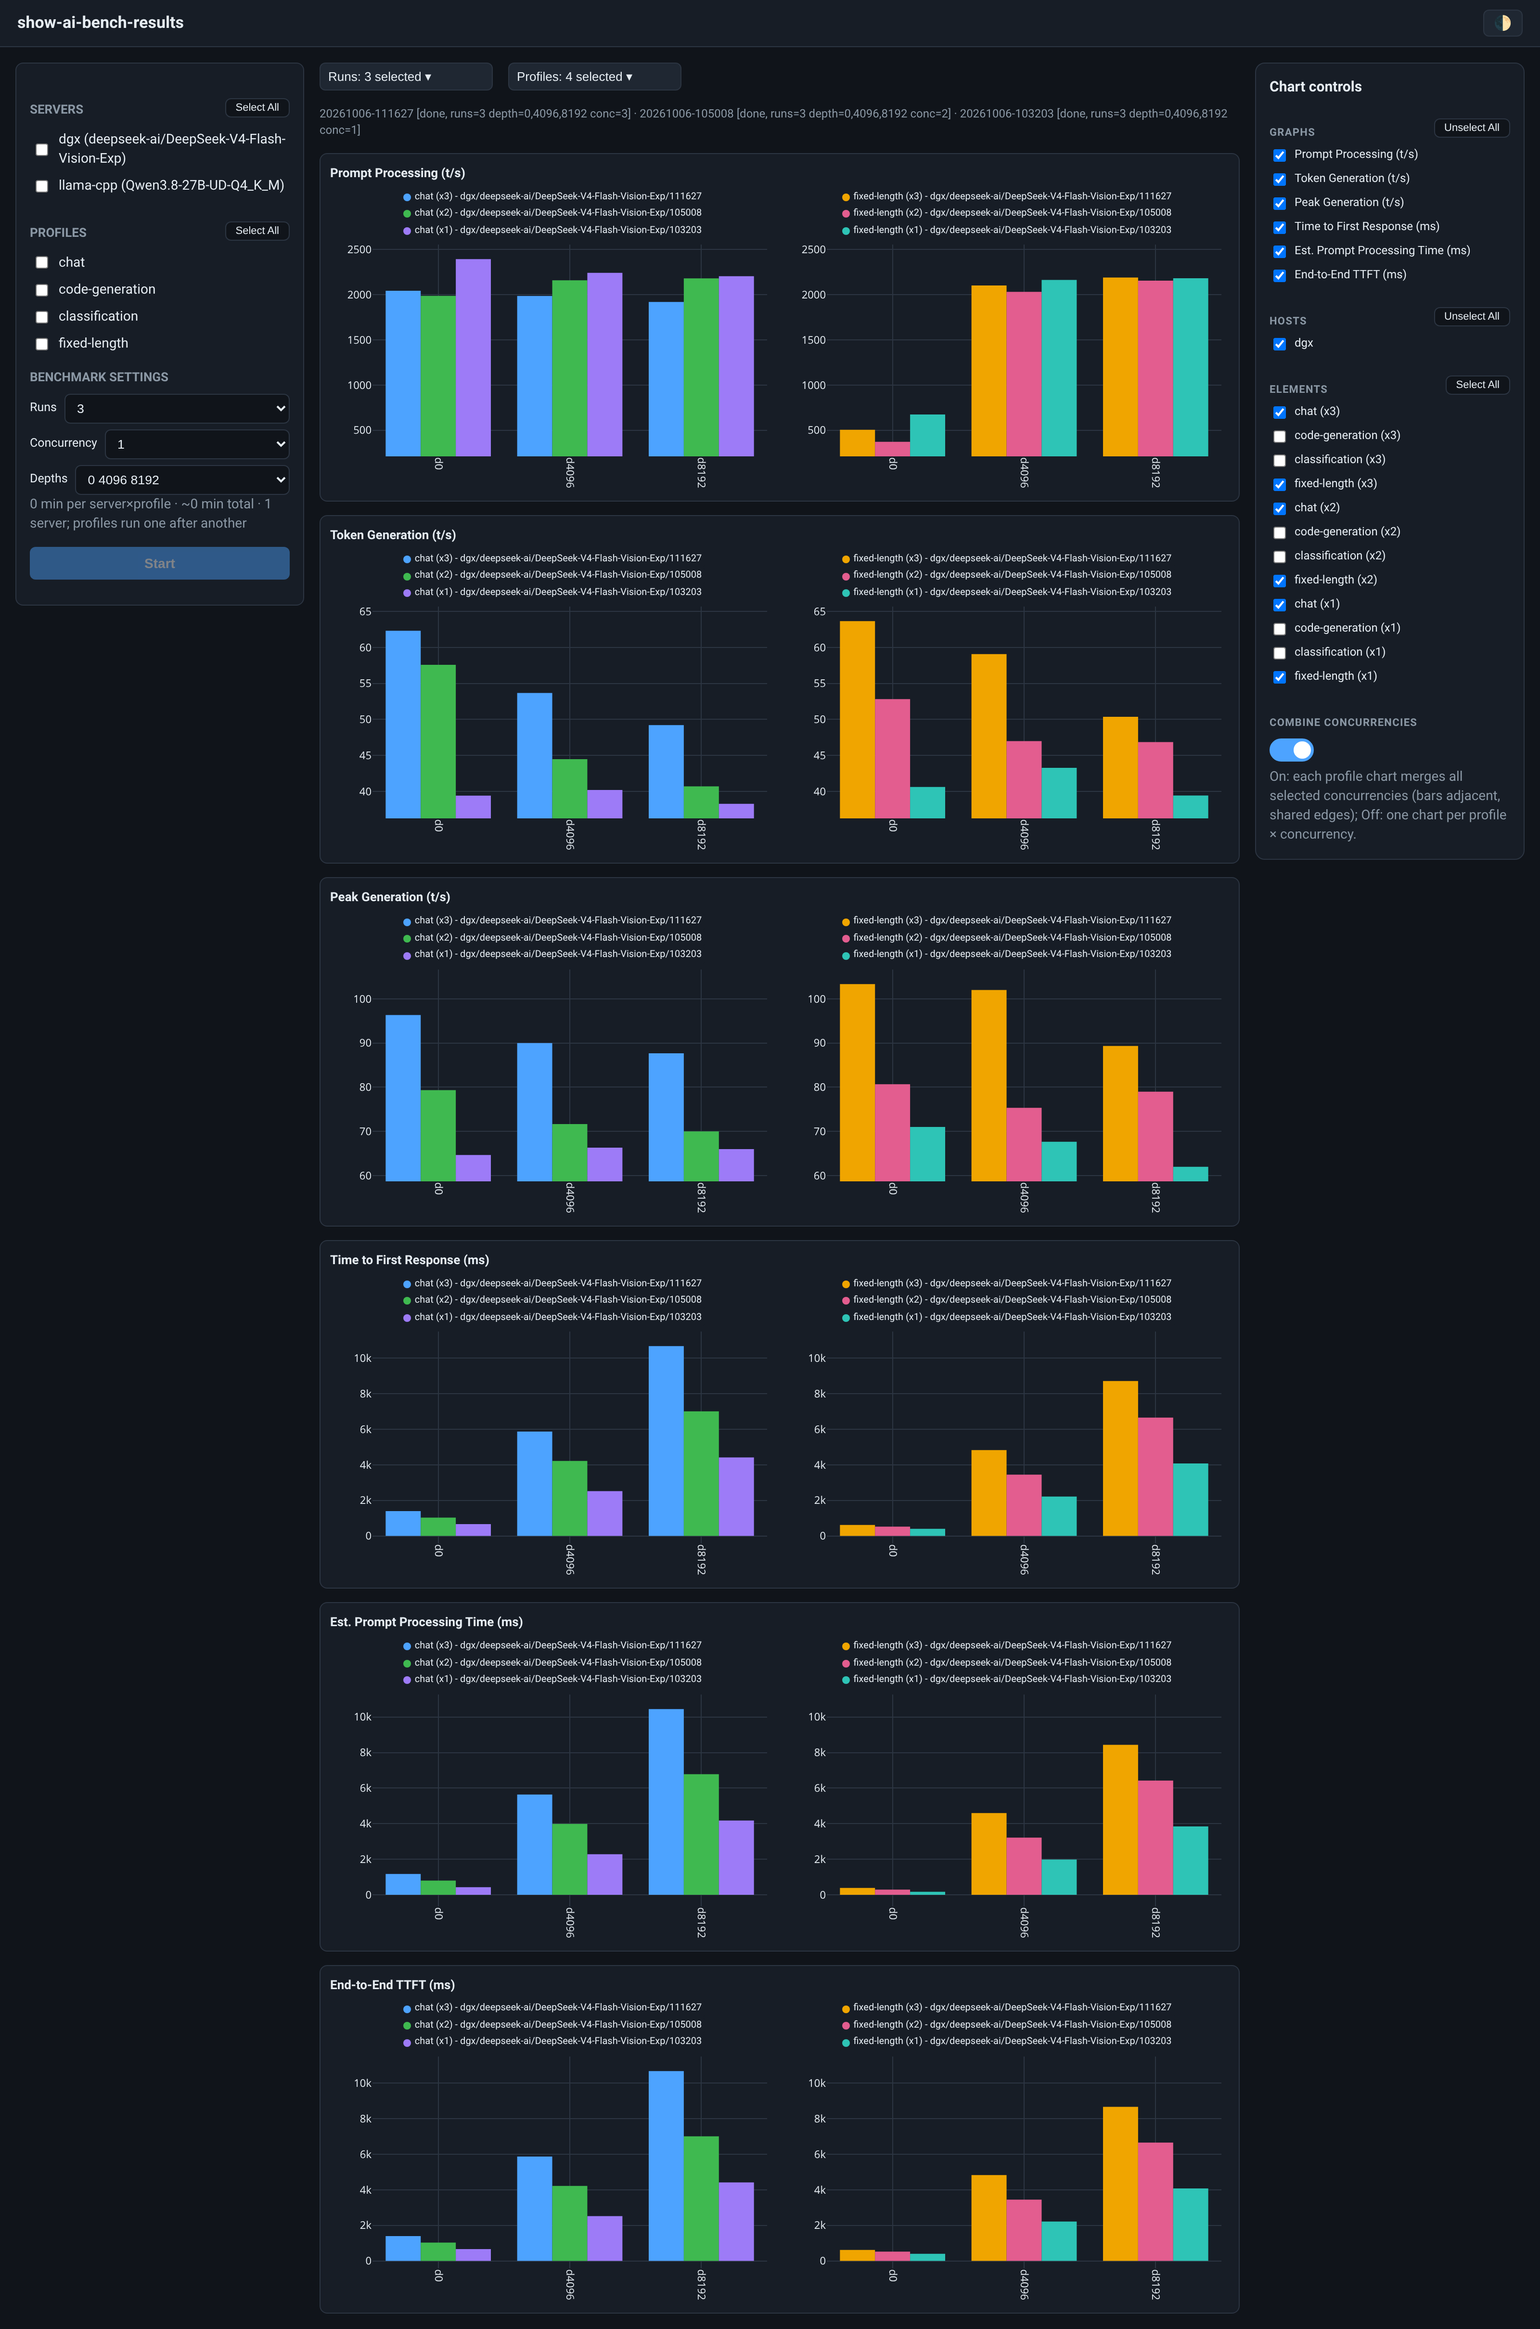
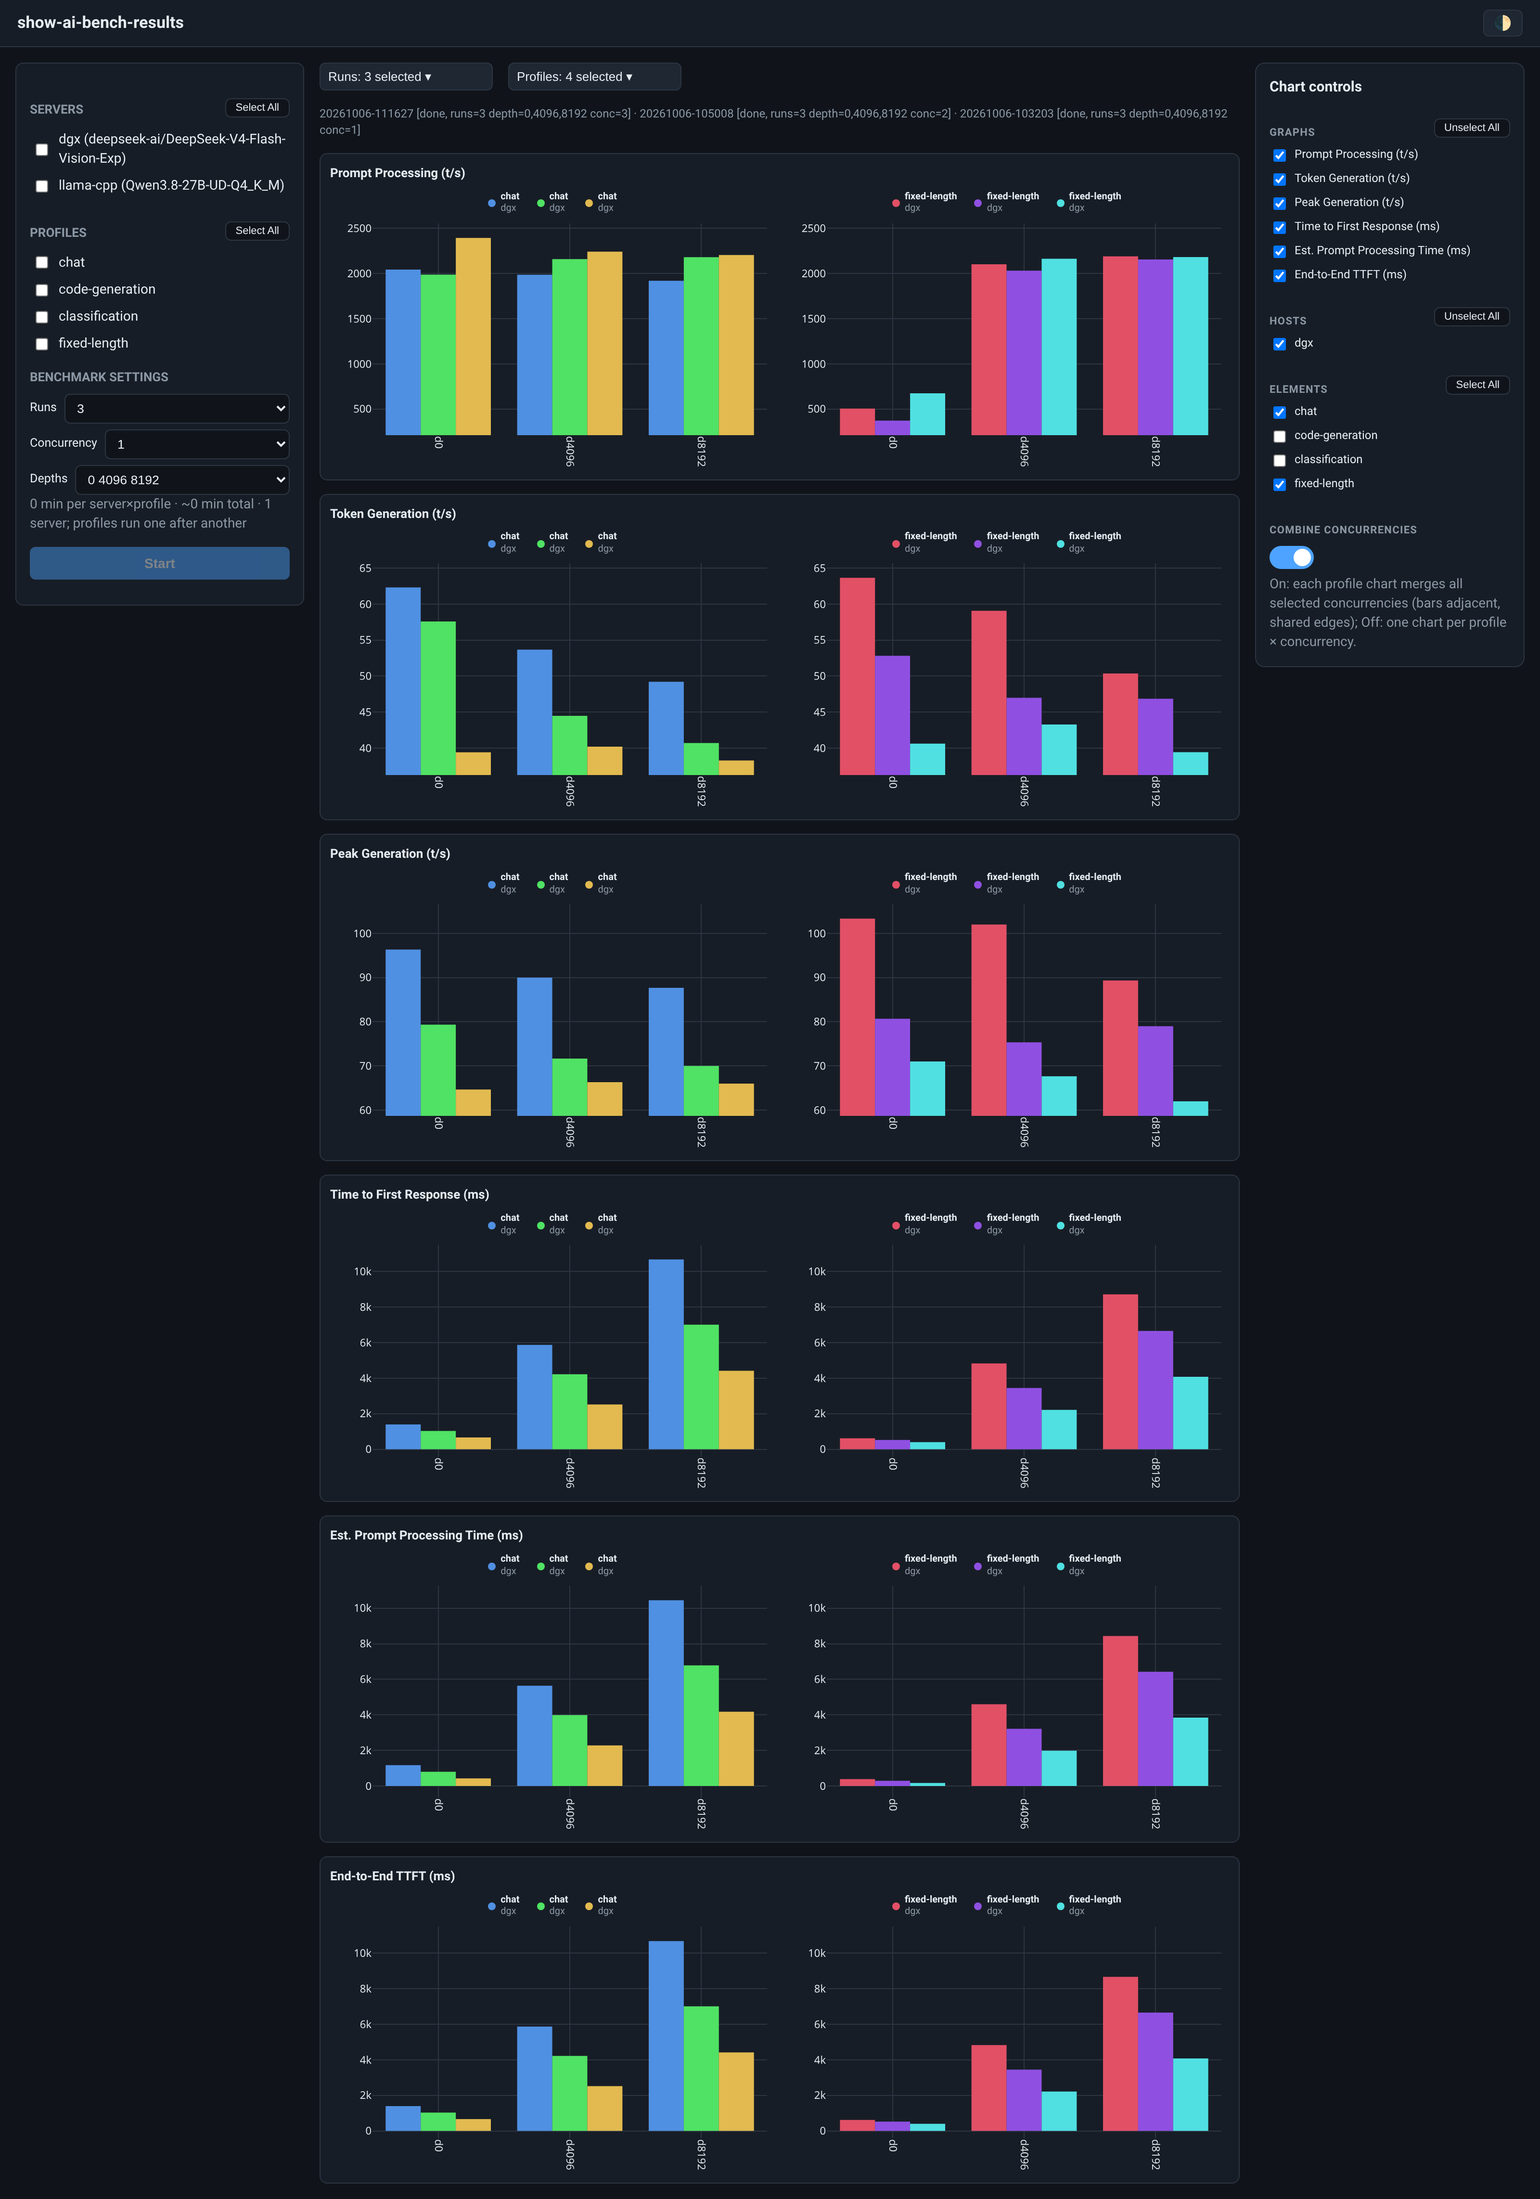
Compact two-line legends, rich bar tooltips, profile-level Elements, smart colors
Legend chips (Chart controls / above each chart):
- Each chip is now two lines: the profile (plain "chat", or "chat (x1)" when
  Combine Concurrencies is off) over the server name. The old
  "<host>/<model>/<run-id>" chips and the redundant group header line are
  removed.

Bar tooltip:
- Hovering a bar shows one multi-line label: a bold header
  ("dgx / chat (x3) / 20261006-111627") with Server, Model, Concurrency,
  Depth, Date, Time, Profile, Run, Prompt/Completion sizes, the metric
  value and its std deviation (per-row customdata + hovertemplate).
- Plotly's separate attached trace-name box is suppressed (trace name
  cleared; the header lives inside the tooltip instead).

Elements panel in Combine Concurrencies mode:
- Collapsed to one checkbox per profile (chat, code-generation,
  classification, fixed-length); ticking a profile selects every concurrency
  level of it present in the selected datasets. Switching the mode
  re-renders the panel, carrying selections over (a ticked profile arrives
  as all its "profile (xN)" entries checked; partial selections show
  unchecked and complete on click). Switched off, the per-profile-(xN)
  list returns. ctlCheckboxes gained isChecked/setChecked hooks; Metrics and
  Hosts lists are unchanged.

Color intelligence:
- Trace colors now come from a golden-angle hue sequence
  (hsl((213.5 + i*137.508), 72%, 60%)) so consecutive traces - the adjacent
  bars of a merged depth cell - are ~137.5 degrees apart in hue; a greedy
[…]

diff --git a/showaibench/static/app.js b/showaibench/static/app.js
@@ -9,10 +9,40 @@ const METRICS = [
   { key: "e2e_ttft", title: "End-to-End TTFT (ms)", field: "e2e_ttft_ms", err: "e2e_ttft_ms_std" },
 ];
 
-const PALETTE = [
-  "#4da3ff", "#f0a500", "#3fb950", "#e35d8f", "#9d7bf7",
-  "#2ec4b6", "#f85149", "#b6c454", "#7aa2f7", "#e8b9f0",
-];
+/* Multi-line hover tooltip: per-bar identity + the measured value. The
+   array indexes reference each trace's customdata (see renderCharts). */
+const TOOLTIP_TEMPLATE =
+  "<b>%{customdata[0]} / %{customdata[2]} (x%{customdata[3]}) / %{customdata[7]}</b><br>" +
+  "<b>Server:</b> %{customdata[0]}<br>" +
+  "<b>Model:</b> %{customdata[1]}<br>" +
+  "<b>Concurrency:</b> %{customdata[3]}<br>" +
+  "<b>Depth:</b> %{customdata[4]}<br>" +
+  "<b>Date:</b> %{customdata[5]}<br>" +
+  "<b>Time:</b> %{customdata[6]}<br>" +
+  "<b>Profile:</b> %{customdata[2]}<br>" +
+  "<b>Run:</b> %{customdata[7]}<br>" +
+  "<b>Prompt/Completion:</b> %{customdata[8]} / %{customdata[9]}<br>" +
+  "<b>%{customdata[10]}:</b> %{y:.2f}<br>%{customdata[11]}";
+
+/* Deterministic trace colors with guaranteed variance: consecutive traces
+   (the adjacent bars inside a merged depth cell) are separated by the golden
+   angle in hue, so bars of the same profile/host at different concurrencies
+   never receive similar colors, no matter how many are selected. The offset
+   starts near the classic blue and keeps the dark theme look. */
+function traceColor(i) {
+  const h = (213.5 + i * 137.508) % 360;
+  return `hsl(${h.toFixed(1)}, 72%, 60%)`;
+}
+
+/* Hue distance in degrees between two hsl() color strings. */
+function hueGap(a, b) {
+  const hue = (s) => parseFloat(/hsl\(([\d.]+)/.exec(s)[1]);
+  const d = Math.abs(hue(a) - hue(b));
+  return Math.min(d, 360 - d);
+}
+
+/* Minimum hue separation between any two traces grouped in one chart. */
+const MIN_HUE_GAP = 45;
 
 const state = {
   servers: [],
@@ -400,23 +430,26 @@ async function refreshViewer() {
 
 /* ------------------------------------------------ chart visibility controls */
 
-function ctlCheckboxes(container, allBtn, items, selected, labelFn, onToggle) {
+function ctlCheckboxes(container, allBtn, items, selected, labelFn, onToggle, opts = {}) {
+  // Defaults: a plain one-to-one checkbox list over `selected`. opts may map
+  // an item to several keys (e.g. a profile -> its concurrency categories).
+  const isOn = opts.isChecked || ((it) => selected.has(it));
+  const setOn = opts.setChecked || ((it, on) => { on ? selected.add(it) : selected.delete(it); });
   container.replaceChildren();
   for (const it of items) {
     const inp = el("input", { type: "checkbox" });
-    inp.checked = selected.has(it);
+    inp.checked = isOn(it);
     inp.addEventListener("change", () => {
-      if (inp.checked) selected.add(it); else selected.delete(it);
+      setOn(it, inp.checked);
       onToggle();
     });
     container.append(el("label", {}, [inp, el("span", { text: labelFn(it) })]));
   }
-  const allOn = items.length > 0 && items.every((it) => selected.has(it));
+  const allOn = items.length > 0 && items.every((it) => isOn(it));
   allBtn.textContent = allOn ? "Unselect All" : "Select All";
   allBtn.disabled = items.length === 0;
   allBtn.onclick = () => {
-    if (allOn) for (const it of items) selected.delete(it);
-    else for (const it of items) selected.add(it);
+    for (const it of items) setOn(it, !allOn);
     onToggle();
   };
 }
@@ -454,10 +487,25 @@ function renderControls() {
     (k) => METRICS.find((m) => m.key === k).title, refresh,
   );
   ctlCheckboxes($("#ctl-hosts"), $("#ctl-hosts-all"), hosts, state.hostsOn, (s) => s, refresh);
-  ctlCheckboxes($("#ctl-elements"), $("#ctl-elements-all"), elements, state.elementsOn, (key) => {
-    const [profile, conc] = key.split("|");
-    return `${profile} (x${conc})`;
-  }, refresh);
+  if (state.combineConc) {
+    // One checkbox per profile; selecting it covers every concurrency of
+    // that profile present in the selected datasets.
+    const profiles = [...new Set(elements.map((e) => e.split("|")[0]))];
+    ctlCheckboxes($("#ctl-elements"), $("#ctl-elements-all"), profiles, state.elementsOn,
+      (p) => p, refresh, {
+        isChecked: (p) => elements.filter((e) => e.startsWith(`${p}|`)).every((e) => state.elementsOn.has(e)),
+        setChecked: (p, on) => {
+          for (const e of elements) if (e.startsWith(`${p}|`)) {
+            if (on) state.elementsOn.add(e); else state.elementsOn.delete(e);
+          }
+        },
+      });
+  } else {
+    ctlCheckboxes($("#ctl-elements"), $("#ctl-elements-all"), elements, state.elementsOn, (key) => {
+      const [profile, conc] = key.split("|");
+      return `${profile} (x${conc})`;
+    }, refresh);
+  }
 
   const cc = $("#combine-conc");
   cc.classList.toggle("on", state.combineConc);
@@ -467,6 +515,7 @@ function renderControls() {
     cc.classList.toggle("on", state.combineConc);
     cc.setAttribute("aria-checked", state.combineConc ? "true" : "false");
     renderCharts();
+    renderControls();
   };
 }
 
@@ -525,7 +574,7 @@ function renderCharts() {
           const gkey = combine ? profile : `${profile}|${conc}`;
           let g = gidx.get(gkey);
           if (!g) {
-            g = { key: gkey, label: profile, depths: [], entries: [], traces: [] };
+            g = { key: gkey, depths: [], entries: [], traces: [] };
             gidx.set(gkey, g);
             groups.push(g);
           }
@@ -537,17 +586,30 @@ function renderCharts() {
             yMin = Math.min(yMin, v);
             yMax = Math.max(yMax, v);
           }
-          const color = PALETTE[colorIdx % PALETTE.length];
-          colorIdx++;
+          const model = doc.servers?.[sname]?.model || "?";
+          const [runDate, runTime] = (doc.started_at || "?").split(" ");
+          let color = traceColor(colorIdx++);
+          // grouped bars must stay distinguishable: skip any candidate whose
+          // hue is too close to a trace already in this chart
+          while (g.traces.some((t) => hueGap(t.marker.color, color) < MIN_HUE_GAP)) {
+            color = traceColor(colorIdx++);
+          }
+          const custom = g.depths.map((d) => {
+            const r = byDepth.get(d);
+            if (!r) return [sname, model, profile, conc, d, runDate, runTime, runId, null, null, metric.title, ""];
+            const std = metric.err && r[metric.err] != null ? `± ${r[metric.err].toFixed(2)}` : "";
+            return [sname, model, profile, conc, d, runDate, runTime, runId, r.pp ?? null, r.tg ?? null, metric.title, std];
+          });
           g.traces.push({
             x: g.depths.map((d) => `${g.key}|${d}`),
             y: yvals,
             type: "bar",
-            name: `${sname} / ${profile} (x${conc}) / ${runId}`,
+            name: "",
             marker: { color },
+            customdata: custom,
+            hovertemplate: TOOLTIP_TEMPLATE,
           });
-          const model = doc.servers?.[sname]?.model || "?";
-          g.entries.push({ label: `${sname}/${model}/${runId.slice(-6)}`, color, profile, conc });
+          g.entries.push({ sname, color, profile, conc });
         }
       }
     }
@@ -568,12 +630,14 @@ function renderCharts() {
     const pending = [];
     for (const g of groups) {
       const sub = el("div", { class: "subplot" });
-      if (!combine) sub.append(el("div", { class: "lg-head", text: `${g.label} (x${g.entries[0].conc})` }));
       const chips = el("div", { class: "lg-chips" });
       for (const e of g.entries) {
         chips.append(el("span", { class: "lg-chip" }, [
           el("i", { style: `background:${e.color}` }),
-          el("span", { text: combine ? `${e.profile} (x${e.conc}) - ${e.label}` : e.label }),
+          el("span", { class: "lg-lines" }, [
+            el("span", { class: "lg-l1", text: combine ? e.profile : `${e.profile} (x${e.conc})` }),
+            el("span", { class: "lg-l2", text: e.sname }),
+          ]),
         ]));
       }
       sub.append(chips);

diff --git a/showaibench/static/index.html b/showaibench/static/index.html
@@ -6,7 +6,7 @@
   <title>show-ai-bench-results</title>
   <link rel="stylesheet" href="/static/style.css?v=11">
   <script src="/static/plotly.min.js"></script>
-  <script src="/static/app.js?v=36" defer></script>
+  <script src="/static/app.js?v=41" defer></script>
 </head>
 <body>
   <header>

diff --git a/README.md b/README.md
@@ -56,15 +56,24 @@ servers.conf ──► main.py (FastAPI, 127.0.0.1:8585)
   **✕ Kill** button (with confirm): `POST /api/run/{id}/kill` terminates
   every live benchy process of that run, and the run is marked failed.
 - **Chart controls** (right panel): enable/disable graphs (metrics), hosts,
-  and element categories (`profile (xN)`); each group has a
-  Select All / Unselect All toggle. Nothing is selected by default —
-  select what you want to compare.
+  and element categories; each group has a Select All / Unselect All
+  toggle. Nothing is selected by default — select what you want to compare.
+  With **Combine Concurrencies** on, Elements shows one checkbox per
+  profile (`chat`, `fixed-length`, …) — ticking it selects **all**
+  concurrency levels of that profile at once. With the switch off, Elements
+  lists one checkbox per `profile (xN)` category.
 - **Combine Concurrencies** switch (below Elements, **on by default**):
   when on, all selected concurrency levels of a profile are merged into a
   single chart — bars of `x1/x2/x3 …` sit edge-to-edge in each depth cell,
-  and the legend is one chip per run:
-  `profile (xN) - server/model/run`. Switch it off to go back to one chart
-  per `profile (xN)` with the usual gaps.
+  and the legend is one two-line chip per run: the profile on the first
+  line (`chat`, or `chat (x1)` when the switch is off) and the server name
+  below it. Switch it off to go back to one chart per `profile (xN)` with
+  the usual gaps.
+- **Bar tooltip**: hovering a bar shows a single multi-line label — a bold
+  header (`dgx / chat (x3) / 20261006-111627`) with the full identity and
+  measurement of that bar underneath: Server, Model, Concurrency, Depth,
+  Date, Time, Profile, Run, Prompt/Completion sizes, the metric value and
+  its std deviation.
 - **Grouped bar charts**: one metric per card; each test group gets its own
   chart side by side, with its legend above it (header + color chips
   `server/model/run` matching the bar colors). All charts in a card share
@@ -101,22 +110,24 @@ The run compares three completed benchmarks against the same `dgx` server
 **3 / 2 / 1** — the three most recent "done" runs. The charts show
 **Combine Concurrencies** at work (default on): `chat` and `fixed-length`
 each render as one chart with the three concurrency levels adjacent in
-every depth cell, and the legend chips identify each run
-(`chat (x3) - dgx/deepseek-ai/DeepSeek-V4-Flash-Vision-Exp/111627` …).
+every depth cell; legend chips are compact (`chat` over `dgx`) and the
+full details live in each bar's hover tooltip.
 
 ![Dashboard](docs/screenshots/dashboard.png)
 
 ![Chart controls](docs/screenshots/chart-controls.png)
 
 The right panel filters: Graphs (which metric cards render), Hosts (which
-servers' bars), Elements (which `profile (xN)` categories) — and the
+servers' bars), Elements (one checkbox per profile — all of that profile's
+concurrency levels — when Combine Concurrencies is on) — and the
 **Combine Concurrencies** switch.
 
 ![Grouped legends](docs/screenshots/grouped-legends.png)
 
-With Combine on, each profile is its own chart with a per-trace legend
-above it; chips match bar colors and include the concurrency and model
-(`chat (x2) - dgx/deepseek-ai/DeepSeek-V4-Flash-Vision-Exp/105008`).
+With Combine on, each profile is its own chart with a compact two-line
+legend above it (`chat` / `dgx`); hovering any bar reveals the full
+identity — server, model, concurrency, depth, date, time, run, and the
+measured value with its std.
 
 ---
 
